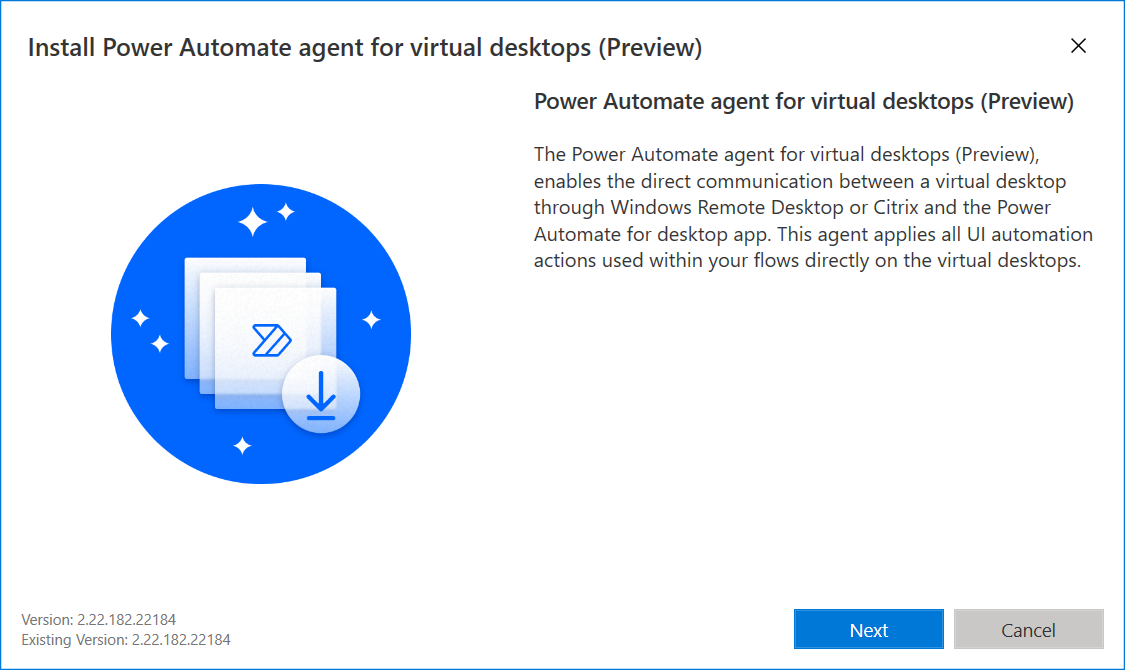
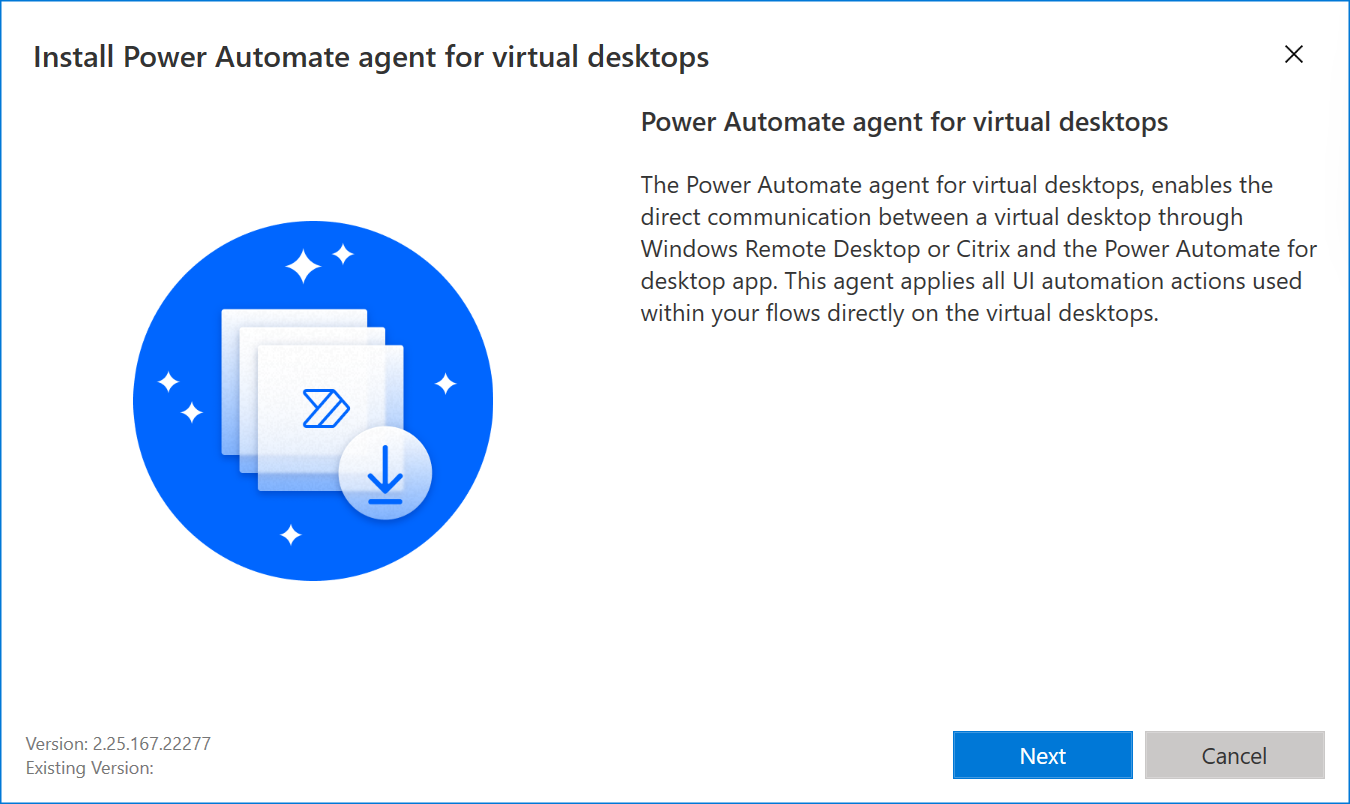
Removed preview for virtual desktops part2

diff --git a/articles/desktop-flows/virtual-desktops.md b/articles/desktop-flows/virtual-desktops.md
@@ -57,8 +57,7 @@ If the versions are out of sync when a desktop flow is running, Power Automate w
 
 Generated selectors of windows and UI elements are the same regardless of whether they were captured on a physical device or a virtual desktop. Visual indications and the tree structure in the UI elements pane help you to distinguish UI elements captured on virtual desktops from those captured on a physical device. [Learn more about UI elements and selectors](ui-elements.md).
 
-UI elements captured on the physical device are located under the **Computer** parent. UI elements captured on a virtual desktop are located under an **RDP** parent. Every virtual desktop has its own individual tree. A numeric prefix helps you to distinguish virtual desktops of the same type.
-<!--NOTE: Would the parent be called "Citrix" if that was the kind of virtual desktop it was on?-->
+UI elements captured on the physical device are located under the **Computer** parent. UI elements captured on a virtual desktop are located under an **RDP** or **Citrix** parent. Every virtual desktop has its own individual tree. A numeric prefix helps you to distinguish virtual desktops of the same type.
 
 :::image type="content" source="media\virtual-desktops\ui-elements-rdp.png" alt-text="Screenshot of some UI elements captured on an RDP virtual desktop.":::
 
